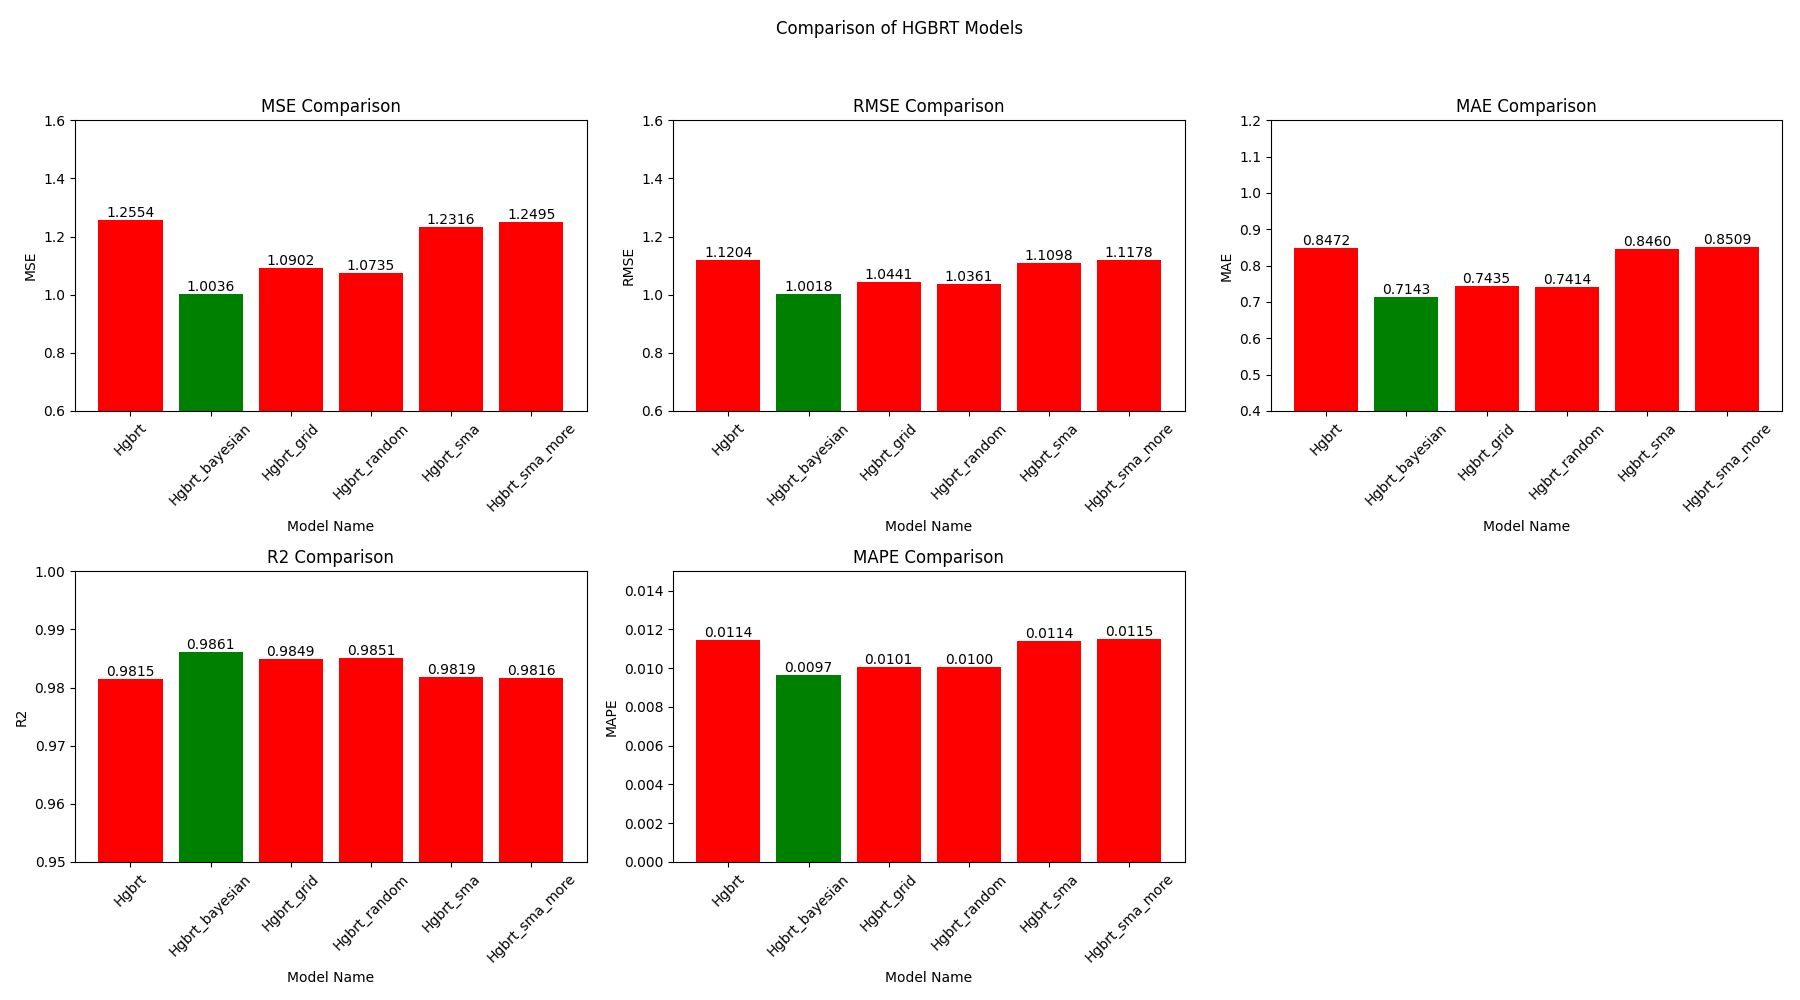
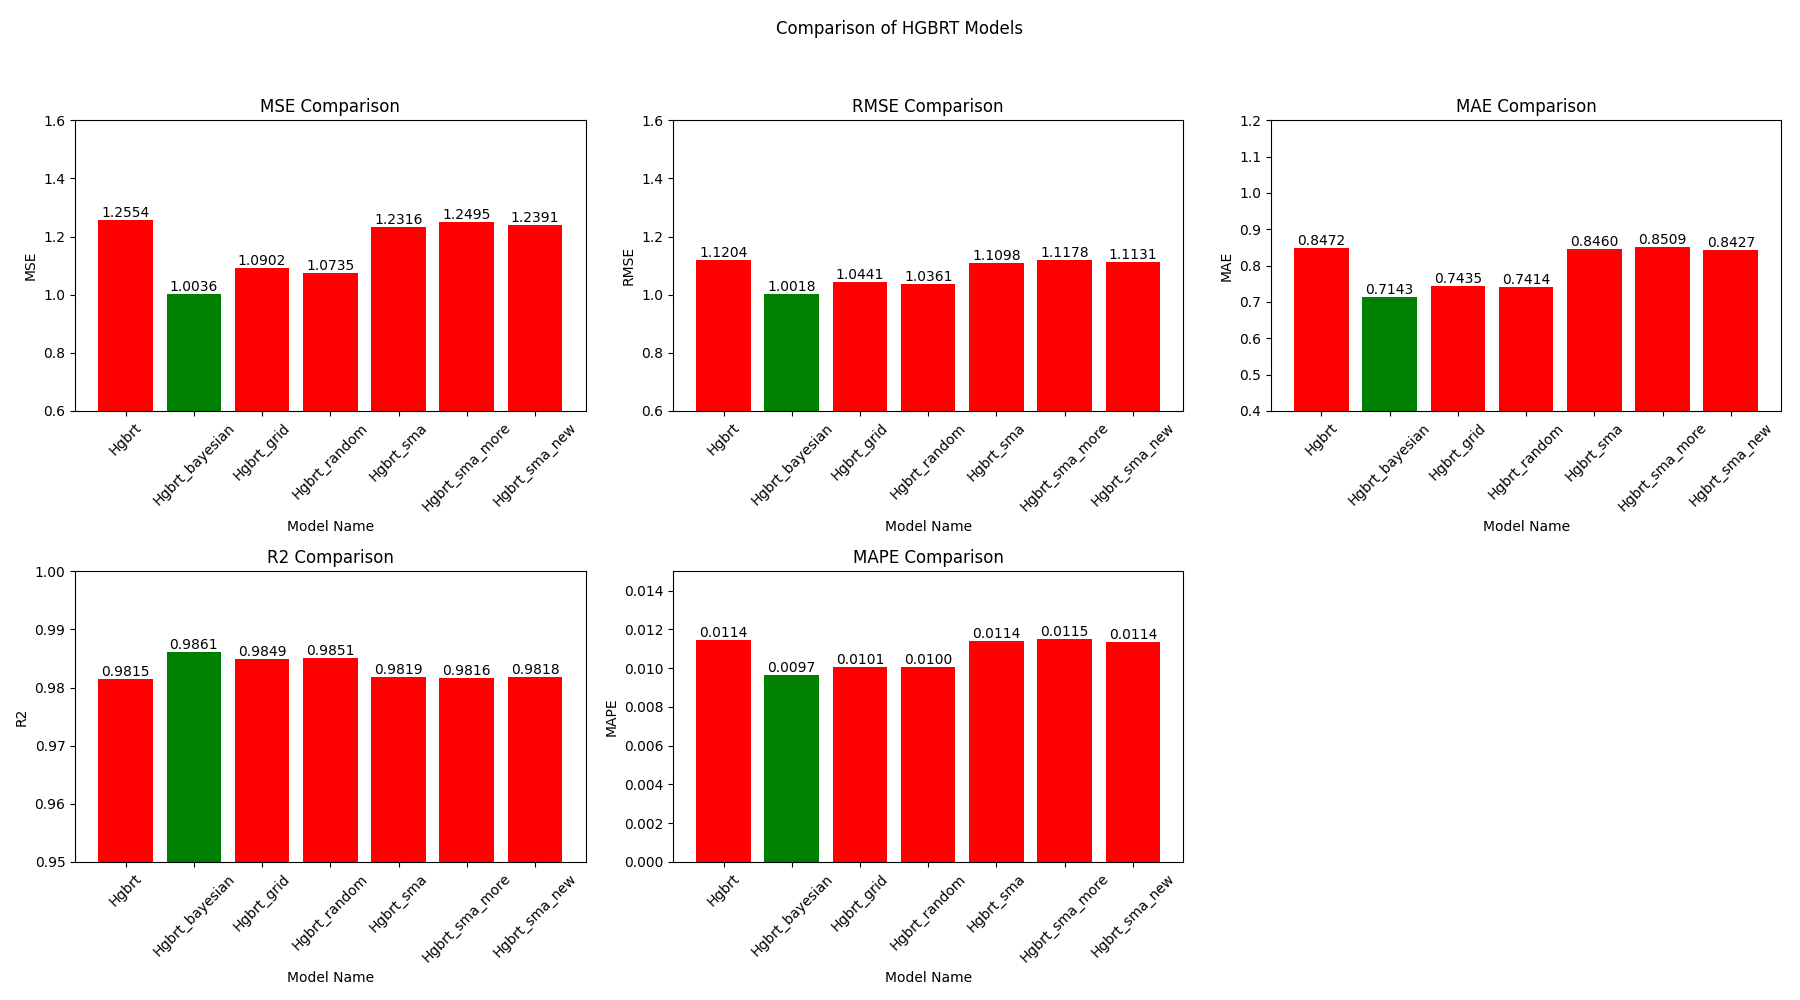
new algorithm for sma

diff --git a/src/sma.py b/src/sma.py
@@ -1,5 +1,6 @@
 import pandas as pd
 import numpy as np
+import random
 from sklearn.model_selection import train_test_split, cross_val_score
 from sklearn.ensemble import HistGradientBoostingRegressor
 from sklearn.metrics import mean_squared_error, r2_score, mean_absolute_percentage_error, mean_absolute_error
@@ -45,7 +46,6 @@ def append_metrics_to_csv(model_name, metrics, model_category='Boosting Models')
 
 # Function to append best parameters to CSV
 def append_best_params_to_csv(model_name, best_params):
-    # Convert best_params dictionary to DataFrame
     df_params = pd.DataFrame([best_params])
     df_params.insert(0, 'Model Name', model_name)
     
@@ -76,51 +76,57 @@ def array_to_dict(agent):
         'l2_regularization': agent[5]
     }
 
-# Slime Mould Algorithm (SMA)
-def initialize_population(n_agents, dim, bounds):
-    population = np.random.rand(n_agents, dim) * (bounds[:, 1] - bounds[:, 0]) + bounds[:, 0]
-    return population
-
-def fitness_function(model, X_train, y_train, X_test, y_test, params):
+# Objective function to calculate Negative MSE (NMSE)
+def objective_function(params, model, X_train, y_train):
     model.set_params(**params)
     scores = cross_val_score(model, X_train, y_train, cv=5, scoring='neg_mean_squared_error')
-    return -np.mean(scores)
+    return -np.mean(scores)  # Negative MSE for minimization
 
-def slime_mould_algorithm(model, X_train, y_train, X_test, y_test, bounds, n_agents=30, max_iter=100):
+# Slime Mould Algorithm (SMA)
+def initialize_population(n_agents, dim, bounds):
+    population = np.random.uniform(bounds[:, 0], bounds[:, 1], size=(n_agents, dim))
+    return population
+
+def slime_mould_algorithm(model, X_train, y_train, X_test, y_test, bounds, n_agents=50, max_iter=100):
     dim = bounds.shape[0]
-    population = initialize_population(n_agents, dim, bounds)
+    positions = initialize_population(n_agents, dim, bounds)
     fitness = np.zeros(n_agents)
     best_agent = None
     best_fitness = float('inf')
+    w = 0.9
+    z = 0.1
+    vb = 0
 
-    for agent in range(n_agents):
-        params = array_to_dict(population[agent])
-        fitness[agent] = fitness_function(model, X_train, y_train, X_test, y_test, params)
-        
-        if fitness[agent] < best_fitness:
-            best_fitness = fitness[agent]
-            best_agent = population[agent].copy()
-
-    for t in range(max_iter):
+    for i in range(max_iter):
+        # Calculate fitness for each agent
         for agent in range(n_agents):
-            population[agent] = update_position(population[agent], best_agent, fitness, t, max_iter, bounds)
-            params = array_to_dict(population[agent])
-            fitness[agent] = fitness_function(model, X_train, y_train, X_test, y_test, params)
-            
+            params = array_to_dict(positions[agent])
+            fitness[agent] = objective_function(params, model, X_train, y_train)
             if fitness[agent] < best_fitness:
                 best_fitness = fitness[agent]
-                best_agent = population[agent].copy()
-        
+                best_agent = positions[agent].copy()
+
+        # Sort agents by fitness
+        sorted_indices = np.argsort(fitness)
+        positions = positions[sorted_indices]
+
+        # Update positions
+        w *= np.exp(-i / max_iter)
+        for j in range(n_agents):
+            if random.random() < w:
+                best_pos = positions[0]
+                positions[j] += np.random.rand() * (best_pos - positions[j])
+            else:
+                random_index = random.randint(0, n_agents - 1)
+                random_pos = positions[random_index]
+                positions[j] += z * np.random.rand() * (random_pos - positions[j])
+            
+            # Add random noise based on velocity
+            positions[j] += vb * np.random.randn(dim)
+            # Ensure the new position is within bounds
+            positions[j] = np.clip(positions[j], bounds[:, 0], bounds[:, 1])
+
     return best_agent, best_fitness
-
-def update_position(agent, best_agent, fitness, t, max_iter, bounds):
-    b = 1 - t / max_iter
-    d = 2 * (np.random.rand() - 0.5)
-    new_agent = agent + d * b * (best_agent - agent)
-
-    # Ensure the new position is within bounds
-    new_agent = np.clip(new_agent, bounds[:, 0], bounds[:, 1])
-    return new_agent
 
 # Define the HGBRT model
 model = HistGradientBoostingRegressor(random_state=42)
@@ -138,7 +144,7 @@ y_pred_sma = model.predict(X_test)
 metrics_sma = calculate_metrics(y_test, y_pred_sma)
 
 # Append SMA results to CSV
-append_metrics_to_csv('Hgbrt_sma_more', metrics_sma)
+append_metrics_to_csv('Hgbrt_sma_new', metrics_sma)
 
 # Append the best parameters to CSV
-append_best_params_to_csv('Hgbrt_sma_more', best_params)
+append_best_params_to_csv('Hgbrt_sma_new', best_params)
